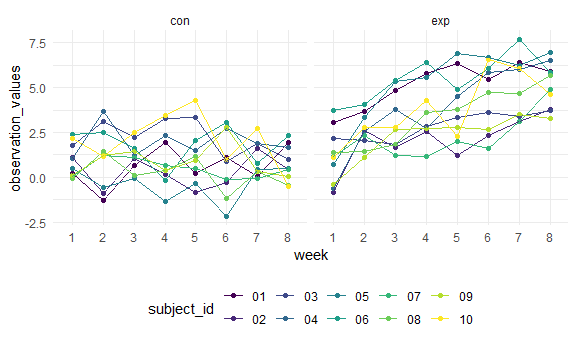
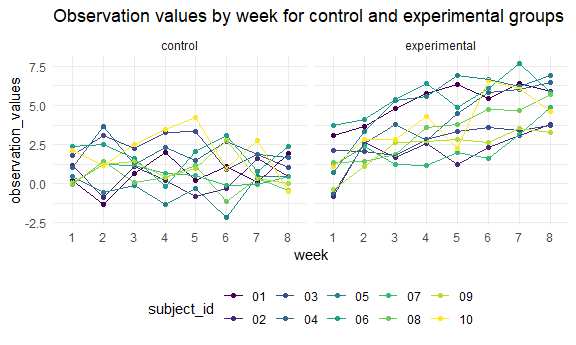
added description

diff --git a/hw5.md b/hw5.md
@@ -139,18 +139,22 @@ observations on each subject over time.
 
 ``` r
 data %>% 
+  mutate(arm = recode(arm, "con" = "control", 
+                            "exp" = "experimental")) %>% 
   group_by(subject_id, week) %>% 
   ggplot(aes(x = week, y = observation_values, color = subject_id)) + 
   geom_point() + 
   geom_line(aes(group = subject_id)) + 
-  facet_grid( . ~arm)
+  facet_grid( . ~arm) + 
+  labs(title = "Observation values by week for control and experimental groups")
 ```
 
 <img src="hw5_files/figure-gfm/unnamed-chunk-7-1.png" width="90%" />
 
 For the control arm group, there isn’t an obvious trend in observation
-values over time. For the experimental group, there is an increasing
-trend in observation values as the number of weeks increases.
+values over time. All values are within -2.5 and 5. For the experimental
+group, there is an increasing trend in observation values as the number
+of weeks increases. The majority of values are within 0 and 7.5.
 
 ## Problem 3
 
